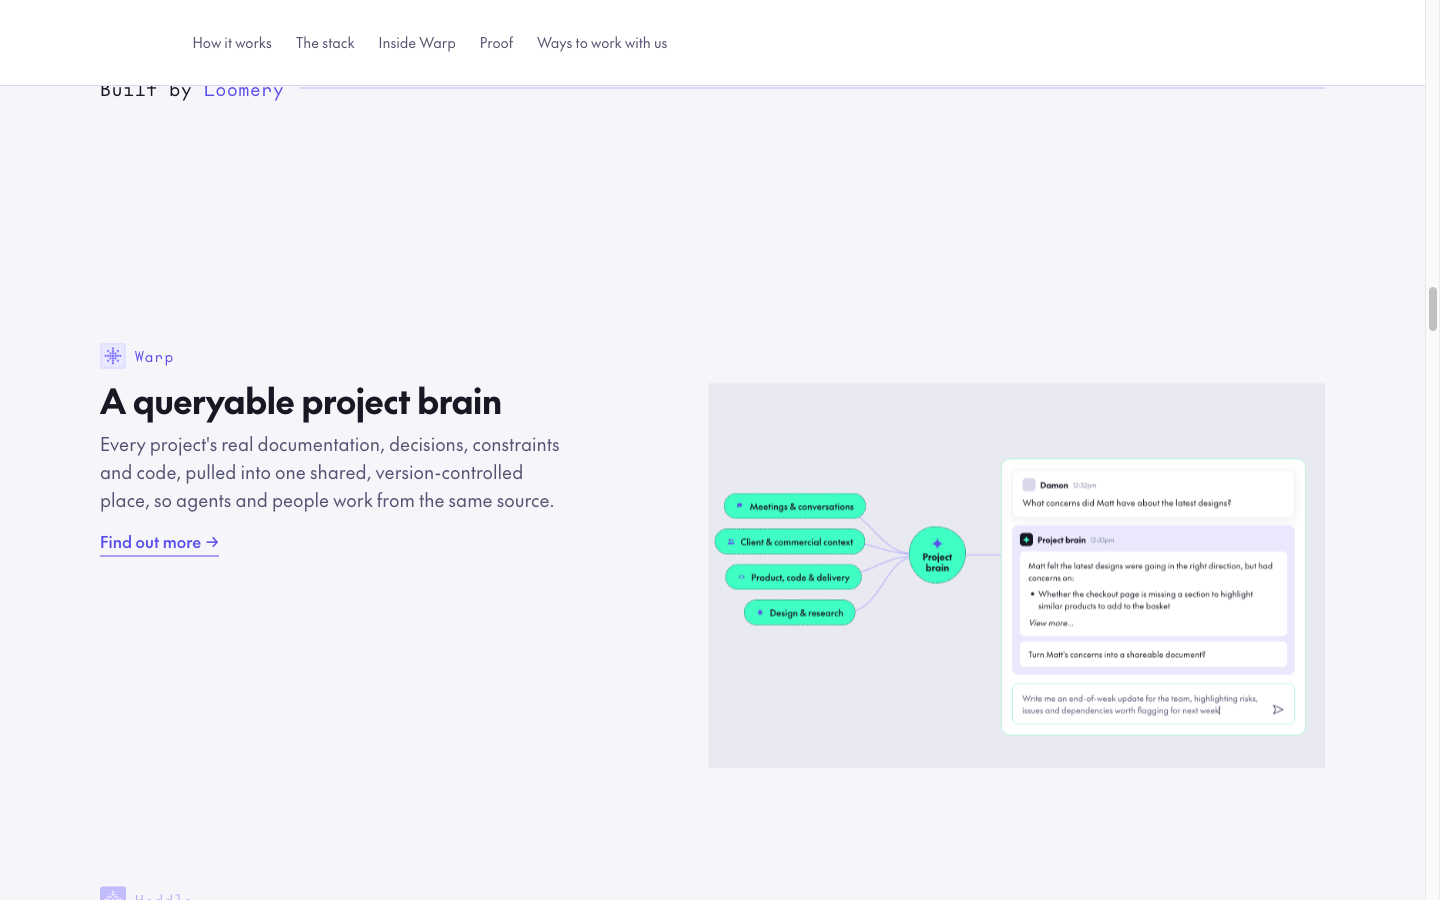
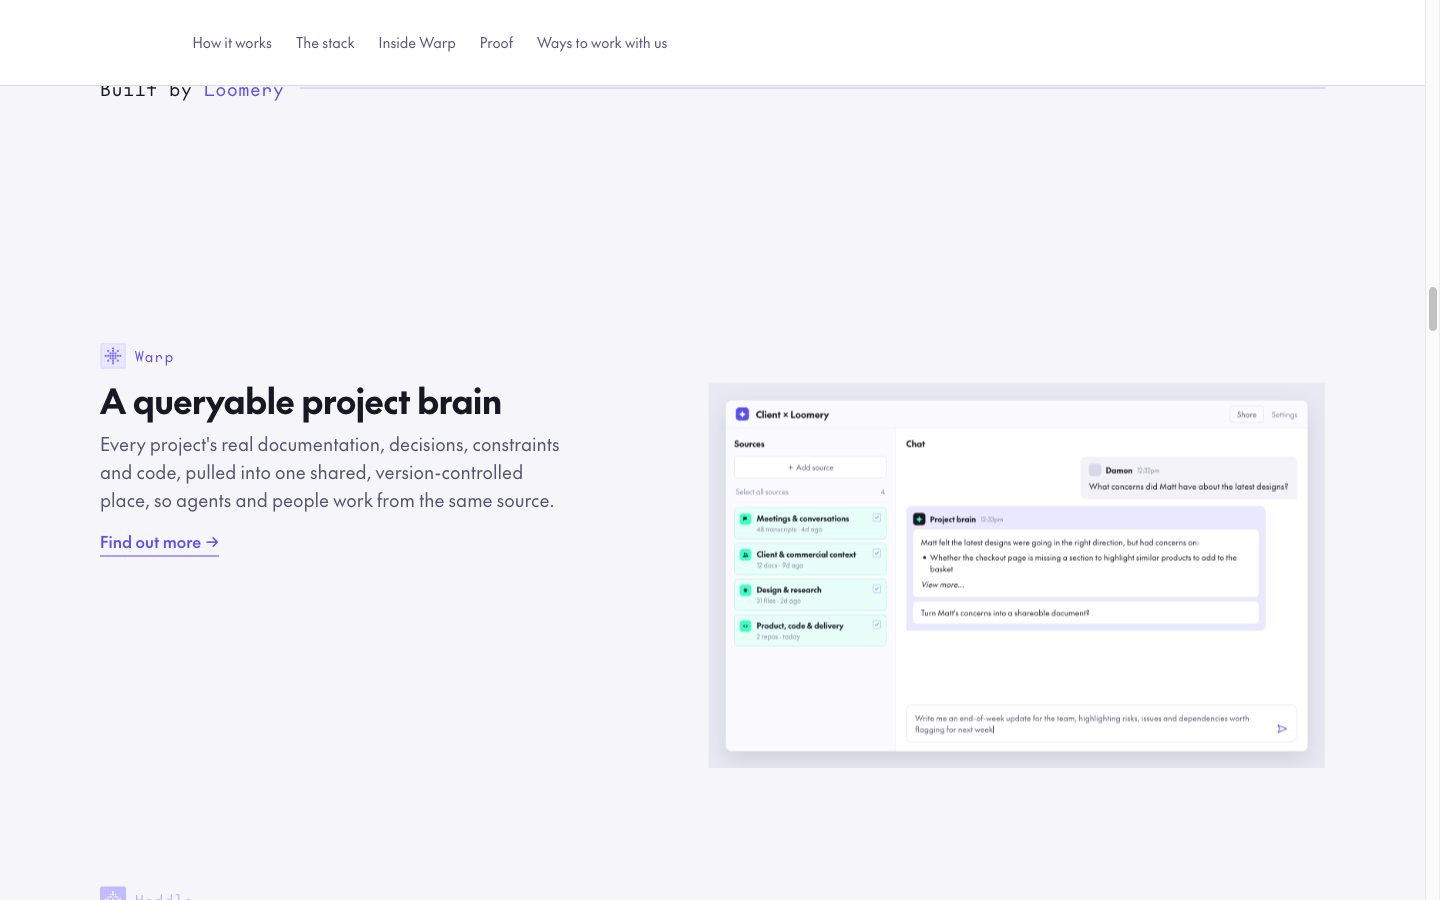
Rebuild the Warp mockup as an app window
Sources on the left, conversation on the right, following the reference
layout. The four source groups are Meetings & conversations, Client &
commercial context, Design & research, and Product, code & delivery,
each with a count and a last-updated so it reads as a live workspace
rather than a diagram.

Still on the same #e9e9f2 panel and the page's own mint and indigo, so
it sits with Heddle and Bobbin.

Changed region(s): [[0.5, 0.5289, 0.9062, 0.8089], [0.6875, 0.4978, 0.9062, 0.56], [0.5, 0.4356, 0.5625, 0.4978]]

diff --git a/mockups/warp.html b/mockups/warp.html
@@ -1,100 +1,116 @@
 <meta charset="utf-8">
 <link rel="stylesheet" href="_base.css">
 <style>
-body{padding:0;background:#e9e9f2}
-.canvas{position:relative;width:1600px;height:1000px}
+body{padding:44px;background:#e9e9f2}
+.app{height:100%;background:#fff;border:1px solid #dcdce8;border-radius:16px;overflow:hidden;
+  box-shadow:0 22px 54px rgba(24,24,37,.11);display:grid;
+  grid-template-rows:72px 1fr;grid-template-columns:440px 1fr}
 
-/* ---- the four sources feeding the brain ---- */
-.src{position:absolute;display:flex;align-items:center;gap:14px;
-  background:#3fffc5;border:1px dashed #181825;border-radius:999px;
-  padding:16px 30px;font-size:23px;font-weight:500;color:#181825;white-space:nowrap}
-.src svg{width:22px;height:22px;fill:#5b4ee9;flex:none}
-.s1{left:40px;top:286px}
-.s2{left:16px;top:378px}
-.s3{left:44px;top:470px}
-.s4{left:92px;top:562px}
+/* ---- title bar ---- */
+.bar{grid-column:1/-1;display:flex;align-items:center;gap:18px;padding:0 26px;
+  border-bottom:1px solid #ececf4;background:#fafaff}
+.mark{width:34px;height:34px;border-radius:9px;background:#5b4ee9;display:grid;place-items:center;flex:none}
+.mark svg{width:20px;height:20px;fill:#fff}
+.proj{font-size:24px;font-weight:600;color:#181825}
+.bar .sp{margin-left:auto;display:flex;align-items:center;gap:20px;font-size:19px;color:#8484a4}
+.pill{border:1px solid #dcdce8;border-radius:8px;padding:8px 18px;color:#545472}
 
-.core{position:absolute;left:520px;top:372px;width:148px;height:148px;
-  background:#3fffc5;border:1px dashed #181825;border-radius:46% 54% 52% 48%/48% 46% 54% 52%;
-  display:flex;flex-direction:column;align-items:center;justify-content:center;gap:6px;
-  font-size:24px;font-weight:600;line-height:1.15;color:#181825;text-align:center}
-.core svg{width:30px;height:30px;fill:#5b4ee9}
-.wires{position:absolute;left:0;top:0;width:1600px;height:1000px;pointer-events:none}
+/* ---- sources ---- */
+.src{border-right:1px solid #ececf4;padding:24px 22px;background:#fafaff;overflow:hidden}
+.src h3{font-size:22px;font-weight:600;color:#181825;margin-bottom:18px}
+.add{border:1px solid #dcdce8;border-radius:10px;padding:14px;text-align:center;
+  font-size:19px;color:#545472;background:#fff;margin-bottom:22px}
+.all{display:flex;align-items:center;justify-content:space-between;font-size:18px;
+  color:#8484a4;padding:0 4px 14px;border-bottom:1px solid #ececf4;margin-bottom:14px}
+.grp{display:flex;align-items:flex-start;gap:14px;padding:15px 14px;border-radius:10px;margin-bottom:10px}
+.grp.on{background:#e7fff8;box-shadow:inset 0 0 0 1px #9df2d6}
+.ic{width:30px;height:30px;border-radius:8px;background:#3fffc5;display:grid;place-items:center;flex:none}
+.ic svg{width:17px;height:17px;fill:#181825}
+.grp .tx{min-width:0;display:flex;flex-direction:column}
+.grp .nm{display:block;font-size:20px;font-weight:600;color:#181825;line-height:1.3}
+.grp .ct{display:block;font-size:17px;color:#8484a4;margin-top:3px}
+.chk{margin-left:auto;width:22px;height:22px;border-radius:5px;border:1.6px solid #b9b2f5;
+  display:grid;place-items:center;flex:none}
+.chk svg{width:13px;height:13px;fill:none;stroke:#5b4ee9;stroke-width:2.6}
 
-/* ---- the query panel ---- */
-.chat{position:absolute;left:760px;top:196px;width:790px;
-  border:2px solid #b8f7dd;border-radius:22px;padding:26px;background:#fff}
-.bub{background:#fff;border:1px solid #e3e3ee;border-radius:16px;padding:22px 26px;
-  box-shadow:0 8px 22px rgba(24,24,37,.06)}
-.who{display:flex;align-items:center;gap:12px;margin-bottom:12px}
-.av{width:34px;height:34px;border-radius:9px;background:#d8d8e8;flex:none}
+/* ---- chat ---- */
+.chat{display:flex;flex-direction:column;padding:24px 28px;overflow:hidden}
+.chat h3{font-size:22px;font-weight:600;color:#181825;margin-bottom:20px}
+.thread{flex:1;display:flex;flex-direction:column;gap:18px;overflow:hidden}
+.who{display:flex;align-items:center;gap:12px;margin-bottom:11px}
+.av{width:32px;height:32px;border-radius:8px;background:#d8d8e8;flex:none}
 .av--b{background:#181825;display:grid;place-items:center}
-.av--b svg{width:19px;height:19px;fill:#3fffc5}
-.nm{font-size:21px;font-weight:600;color:#181825}
-.ts{font-size:17px;color:#8484a4}
-.q{font-size:22px;line-height:1.5;color:#181825}
-.ans{margin-top:20px;background:#eae8fd;border-radius:16px;padding:20px}
-.ans .who{margin-bottom:14px}
-.ans .card{background:#fff;border-radius:12px;padding:20px 22px}
-.ans p{font-size:21px;line-height:1.5;color:#181825}
-.ans ul{margin:10px 0 0;padding-left:26px}
-.ans li{font-size:21px;line-height:1.5;color:#181825}
-.more{margin-top:12px;font-size:19px;font-style:italic;color:#545472}
-.follow{margin-top:14px;background:#fff;border-radius:12px;padding:18px 22px;
-  font-size:21px;line-height:1.45;color:#181825}
-.input{margin-top:22px;border:2px solid #b8f7dd;border-radius:16px;padding:20px 24px;
-  display:flex;align-items:flex-end;gap:18px;background:#fff}
-.input p{font-size:21px;line-height:1.5;color:#545472}
-.input svg{width:34px;height:34px;fill:none;stroke:#545472;stroke-width:1.6;flex:none}
-.caret{display:inline-block;width:2px;height:22px;background:#181825;vertical-align:-3px}
+.av--b svg{width:18px;height:18px;fill:#3fffc5}
+.nm2{font-size:20px;font-weight:600;color:#181825}
+.ts{font-size:16px;color:#8484a4}
+.ask{align-self:flex-end;max-width:78%;background:#f2f2f8;border-radius:14px 14px 4px 14px;padding:18px 22px}
+.ask p{font-size:21px;line-height:1.45;color:#181825}
+.rep{max-width:92%;background:#eae8fd;border-radius:14px 14px 14px 4px;padding:18px}
+.rep .card{background:#fff;border-radius:10px;padding:18px 20px}
+.rep p{font-size:20px;line-height:1.5;color:#181825}
+.rep ul{margin:9px 0 0;padding-left:24px}
+.rep li{font-size:20px;line-height:1.5;color:#181825}
+.more{margin-top:10px;font-size:18px;font-style:italic;color:#545472}
+.follow{margin-top:12px;background:#fff;border-radius:10px;padding:15px 20px;font-size:20px;color:#181825}
+.input{margin-top:20px;border:1px solid #dcdce8;border-radius:14px;padding:18px 22px;
+  display:flex;align-items:flex-end;gap:18px}
+.input p{font-size:20px;line-height:1.45;color:#545472}
+.input svg{width:30px;height:30px;fill:none;stroke:#5b4ee9;stroke-width:1.7;flex:none}
+.caret{display:inline-block;width:2px;height:20px;background:#181825;vertical-align:-3px}
 </style>
-<div class="canvas">
-  <svg class="wires" viewBox="0 0 1600 1000" fill="none" stroke="#b9b2f5" stroke-width="2.5">
-    <path d="M300 318 C 420 318 430 430 520 442"/>
-    <path d="M320 410 C 420 410 440 436 520 444"/>
-    <path d="M320 502 C 420 502 440 456 520 450"/>
-    <path d="M360 594 C 440 594 460 466 520 454"/>
-    <path d="M668 446 H 760"/>
-  </svg>
-
-  <div class="src s1">
-    <svg viewBox="0 0 24 24"><path d="M4 4h11a2 2 0 012 2v6a2 2 0 01-2 2H8l-4 4V4z"/></svg>
-    Meetings &amp; conversations
-  </div>
-  <div class="src s2">
-    <svg viewBox="0 0 24 24"><circle cx="9" cy="8" r="3.2"/><circle cx="17" cy="9" r="2.6"/><path d="M3 20c0-3.3 2.7-6 6-6s6 2.7 6 6H3zm13 0c0-2.2-.9-4.2-2.3-5.6 1-.3 2-.4 3.3-.4 2.8 0 5 2.2 5 5v1h-6z"/></svg>
-    Client &amp; commercial context
-  </div>
-  <div class="src s3">
-    <svg viewBox="0 0 24 24"><path d="M9.4 6.6L3 12l6.4 5.4 1.5-1.8L6.1 12l4.8-3.6L9.4 6.6zm5.2 0l-1.5 1.8L17.9 12l-4.8 3.6 1.5 1.8L21 12l-6.4-5.4z"/></svg>
-    Product, code &amp; delivery
-  </div>
-  <div class="src s4">
-    <svg viewBox="0 0 24 24"><path d="M12 2l1.3 5.2L18 5.6l-2.4 4.6L21 12l-5.4 1.8L18 18.4l-4.7-1.6L12 22l-1.3-5.2L6 18.4l2.4-4.6L3 12l5.4-1.8L6 5.6l4.7 1.6L12 2z"/></svg>
-    Design &amp; research
+<div class="app">
+  <div class="bar">
+    <span class="mark"><svg viewBox="0 0 24 24"><path d="M12 1c1 6.6 5.4 11 12 12-6.6 1-11 5.4-12 12-1-6.6-5.4-11-12-12 6.6-1 11-5.4 12-12z"/></svg></span>
+    <span class="proj">Client × Loomery</span>
+    <span class="sp"><span class="pill">Share</span><span>Settings</span></span>
   </div>
 
-  <div class="core">
-    <svg viewBox="0 0 24 24"><path d="M12 1c1 6.6 5.4 11 12 12-6.6 1-11 5.4-12 12-1-6.6-5.4-11-12-12 6.6-1 11-5.4 12-12z"/></svg>
-    Project<br>brain
+  <div class="src">
+    <h3>Sources</h3>
+    <div class="add">＋ Add source</div>
+    <div class="all"><span>Select all sources</span><span>4</span></div>
+
+    <div class="grp on">
+      <span class="ic"><svg viewBox="0 0 24 24"><path d="M4 4h11a2 2 0 012 2v6a2 2 0 01-2 2H8l-4 4V4z"/></svg></span>
+      <span class="tx"><span class="nm">Meetings &amp; conversations</span><span class="ct">48 transcripts · 4d ago</span></span>
+      <span class="chk"><svg viewBox="0 0 24 24"><path d="M4 12l5 5L20 6" stroke-linecap="round" stroke-linejoin="round"/></svg></span>
+    </div>
+    <div class="grp on">
+      <span class="ic"><svg viewBox="0 0 24 24"><circle cx="9" cy="8" r="3.2"/><circle cx="17" cy="9" r="2.6"/><path d="M3 20c0-3.3 2.7-6 6-6s6 2.7 6 6H3zm13 0c0-2.2-.9-4.2-2.3-5.6 1-.3 2-.4 3.3-.4 2.8 0 5 2.2 5 5v1h-6z"/></svg></span>
+      <span class="tx"><span class="nm">Client &amp; commercial context</span><span class="ct">12 docs · 9d ago</span></span>
+      <span class="chk"><svg viewBox="0 0 24 24"><path d="M4 12l5 5L20 6" stroke-linecap="round" stroke-linejoin="round"/></svg></span>
+    </div>
+    <div class="grp on">
+      <span class="ic"><svg viewBox="0 0 24 24"><path d="M12 2l1.3 5.2L18 5.6l-2.4 4.6L21 12l-5.4 1.8L18 18.4l-4.7-1.6L12 22l-1.3-5.2L6 18.4l2.4-4.6L3 12l5.4-1.8L6 5.6l4.7 1.6L12 2z"/></svg></span>
+      <span class="tx"><span class="nm">Design &amp; research</span><span class="ct">31 files · 2d ago</span></span>
+      <span class="chk"><svg viewBox="0 0 24 24"><path d="M4 12l5 5L20 6" stroke-linecap="round" stroke-linejoin="round"/></svg></span>
+    </div>
+    <div class="grp on">
+      <span class="ic"><svg viewBox="0 0 24 24"><path d="M9.4 6.6L3 12l6.4 5.4 1.5-1.8L6.1 12l4.8-3.6L9.4 6.6zm5.2 0l-1.5 1.8L17.9 12l-4.8 3.6 1.5 1.8L21 12l-6.4-5.4z"/></svg></span>
+      <span class="tx"><span class="nm">Product, code &amp; delivery</span><span class="ct">2 repos · today</span></span>
+      <span class="chk"><svg viewBox="0 0 24 24"><path d="M4 12l5 5L20 6" stroke-linecap="round" stroke-linejoin="round"/></svg></span>
+    </div>
   </div>
 
   <div class="chat">
-    <div class="bub">
-      <div class="who"><span class="av"></span><span class="nm">Damon</span><span class="ts">12:32pm</span></div>
-      <p class="q">What concerns did Matt have about the latest designs?</p>
-    </div>
-    <div class="ans">
-      <div class="who">
-        <span class="av av--b"><svg viewBox="0 0 24 24"><path d="M12 1c1 6.6 5.4 11 12 12-6.6 1-11 5.4-12 12-1-6.6-5.4-11-12-12 6.6-1 11-5.4 12-12z"/></svg></span>
-        <span class="nm">Project brain</span><span class="ts">12:33pm</span>
+    <h3>Chat</h3>
+    <div class="thread">
+      <div class="ask">
+        <div class="who"><span class="av"></span><span class="nm2">Damon</span><span class="ts">12:32pm</span></div>
+        <p>What concerns did Matt have about the latest designs?</p>
       </div>
-      <div class="card">
-        <p>Matt felt the latest designs were going in the right direction, but had concerns on:</p>
-        <ul><li>Whether the checkout page is missing a section to highlight similar products to add to the basket</li></ul>
-        <p class="more">View more…</p>
+      <div class="rep">
+        <div class="who">
+          <span class="av av--b"><svg viewBox="0 0 24 24"><path d="M12 1c1 6.6 5.4 11 12 12-6.6 1-11 5.4-12 12-1-6.6-5.4-11-12-12 6.6-1 11-5.4 12-12z"/></svg></span>
+          <span class="nm2">Project brain</span><span class="ts">12:33pm</span>
+        </div>
+        <div class="card">
+          <p>Matt felt the latest designs were going in the right direction, but had concerns on:</p>
+          <ul><li>Whether the checkout page is missing a section to highlight similar products to add to the basket</li></ul>
+          <p class="more">View more…</p>
+        </div>
+        <div class="follow">Turn Matt's concerns into a shareable document?</div>
       </div>
-      <div class="follow">Turn Matt's concerns into a shareable document?</div>
     </div>
     <div class="input">
       <p>Write me an end-of-week update for the team, highlighting risks, issues and dependencies worth flagging for next week<span class="caret"></span></p>

diff --git a/index.html b/index.html
@@ -207,7 +207,7 @@
           <div class="pscroll__frame">
         <div class="ppane" data-product="warp" data-on>
           <div class="media" data-media="warp">
-            <img src="images/product-warp.png" alt="Warp: meetings, client context, product and design all feeding one project brain, with someone asking it what concerns came up in a design review" loading="lazy" width="1600" height="1000">
+            <img src="images/product-warp.png" alt="The Warp app: four source groups on the left — meetings, client context, design research, product and code — and a chat on the right where someone asks what concerns came up in a design review" loading="lazy" width="1600" height="1000">
           </div>
         </div>
         <div class="ppane" data-product="heddle">
